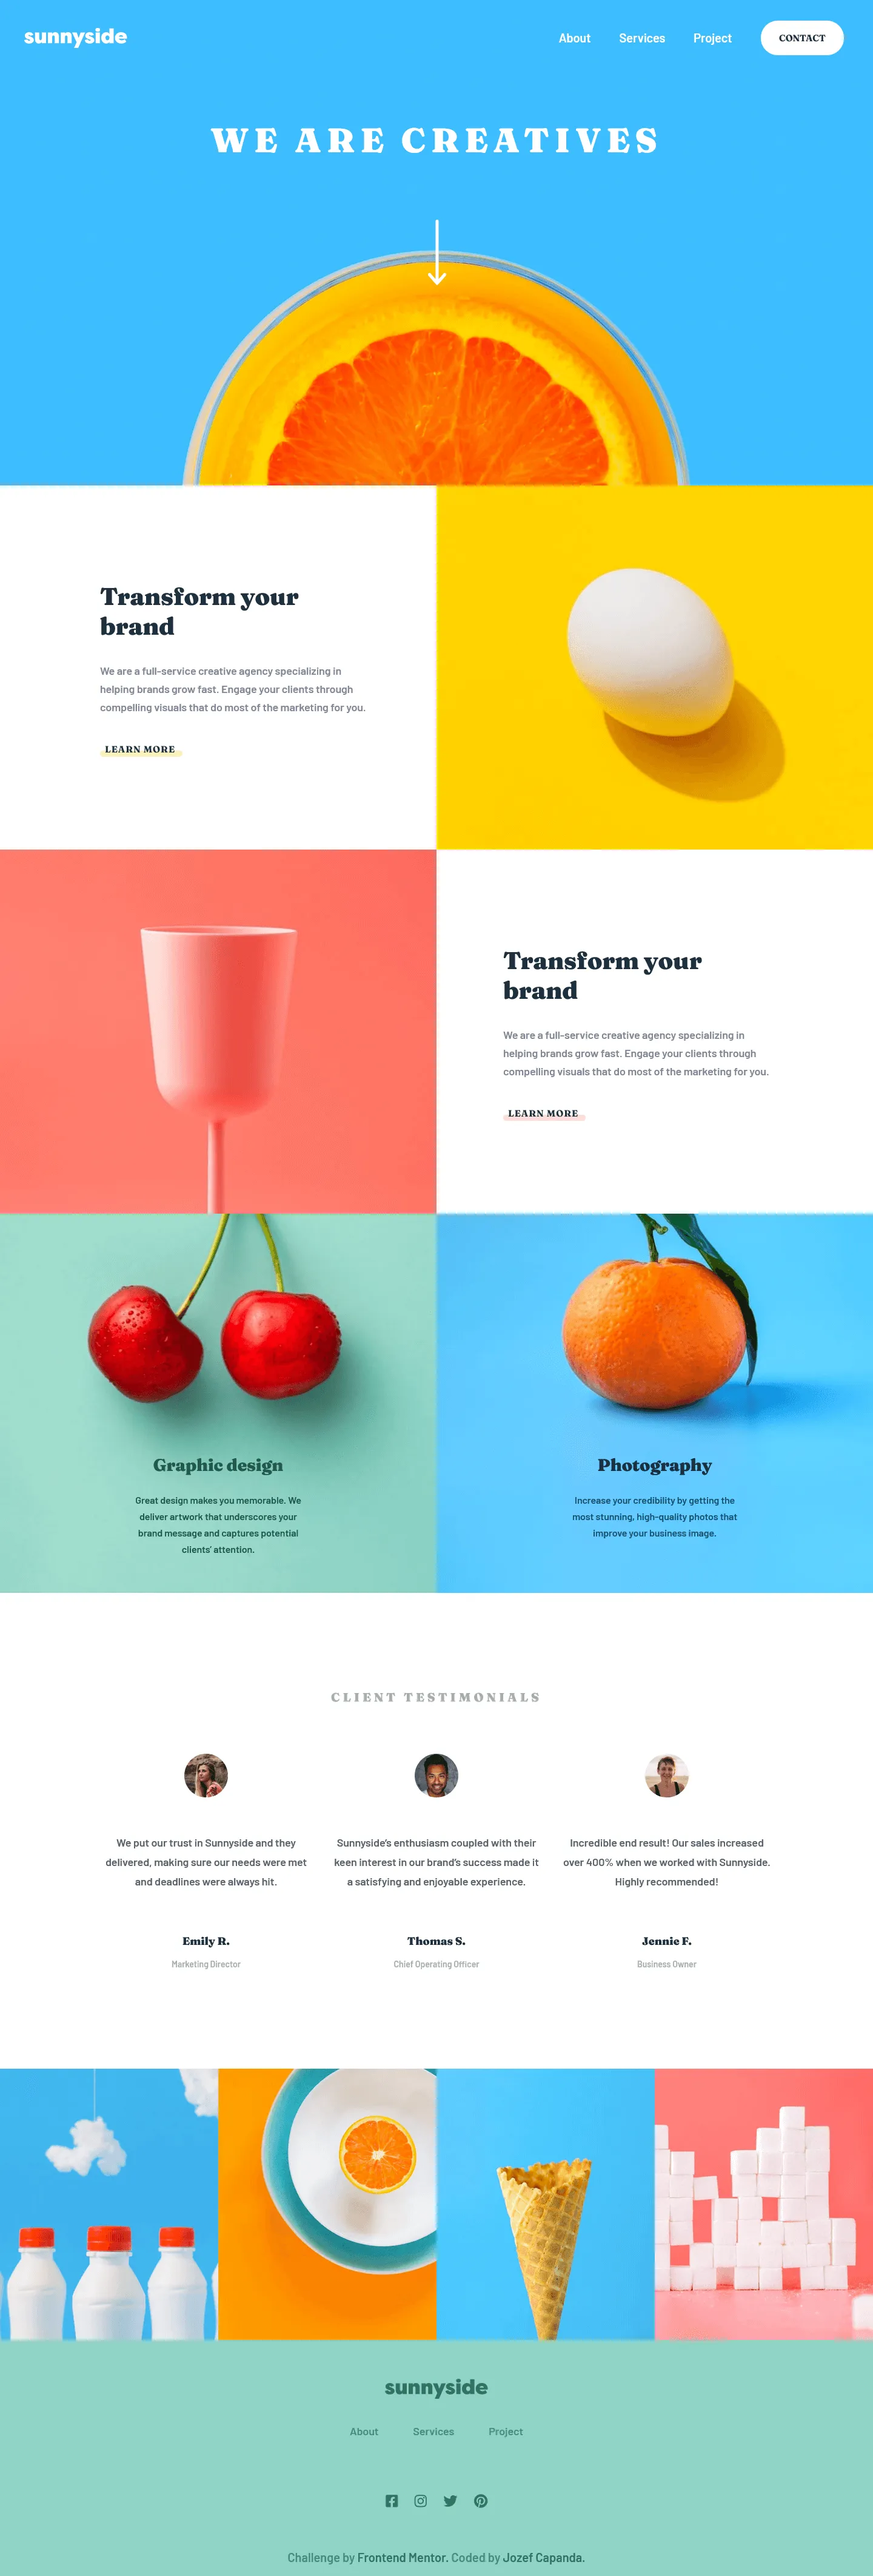
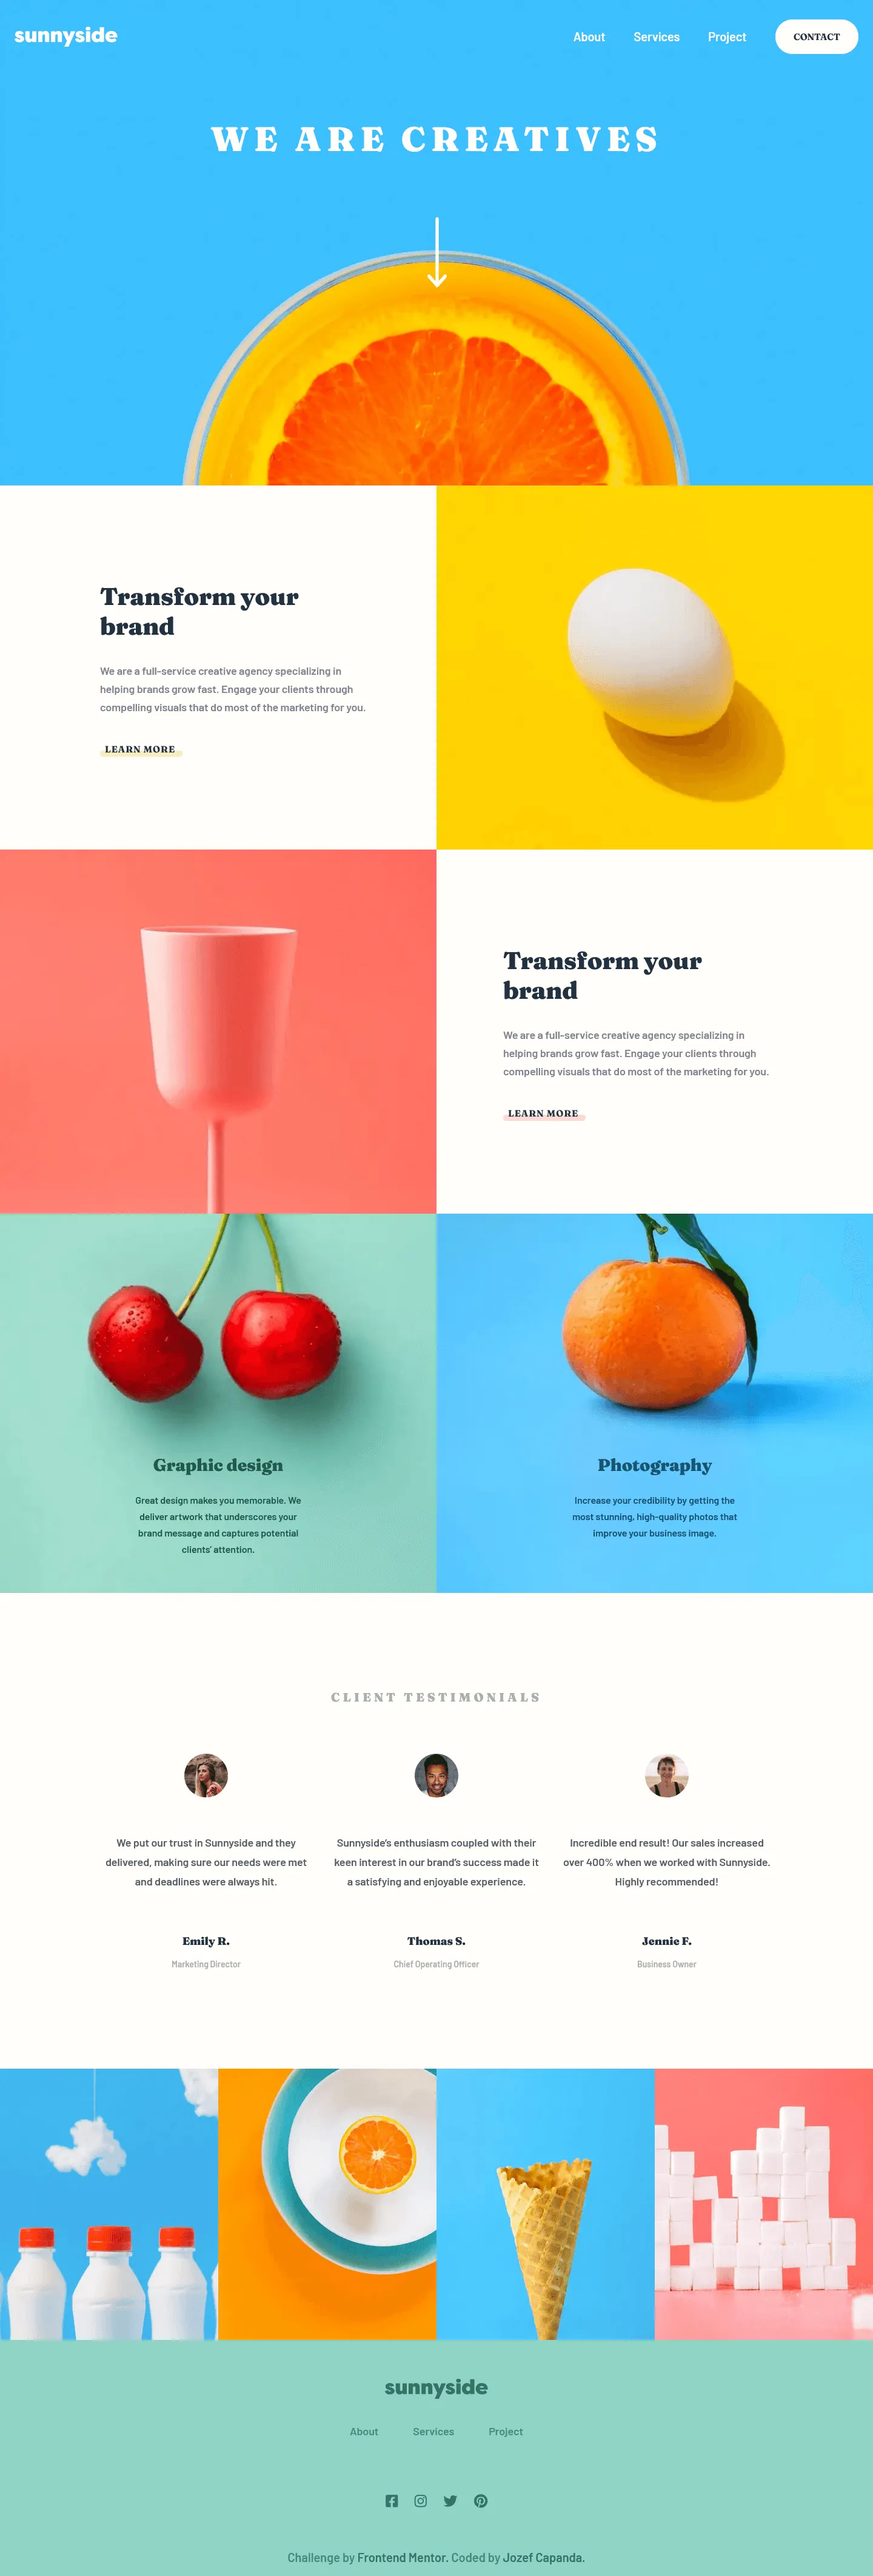
update

Changed region(s): [[0.875, 0.0, 1.0, 0.0311], [0.0312, 0.0, 0.125, 0.0311], [0.8125, 0.0, 0.8438, 0.0311]]

diff --git a/styles/main.min.css b/styles/main.min.css
@@ -1,1 +1,1 @@
-.navigation__link--contact,.text-container__link{font-family:var(--ff-heading);color:var(--clr-dark-blue-800)}.attribution,.footer,.header,.testimonials,.text-container{text-align:center}.footer__socials-icon:hover,.header__title,.navigation__link,.navigation__link--footer:hover{color:var(--clr-white)}.header{height:clamp(33.63rem,calc(9.54rem + 102.75vw),50rem);background-image:url("../images/mobile/image-header.jpg");background-size:cover;background-position:center;background-repeat:no-repeat;position:relative}.logo{width:7.7275rem;height:1.5rem}.header__title{font-size:clamp(2.5rem, calc(2.15rem + 1.5vw), 3.5rem);margin-top:clamp(5.5rem,calc(5.13rem + 1.6vw),6.56rem);line-height:3.0825rem;letter-spacing:.3906rem;text-transform:uppercase}.header__arrow{position:absolute;width:1.875rem;height:6.7175rem;top:clamp(18.38rem,calc(1.86rem + 70.45vw),30rem);left:49%;transform:translateX(-50%);animation:1s linear infinite pulse;border:transparent}@keyframes pulse{0%,100%{transform:scale(1,1)}50%{transform:scale(1.1,1.1)}}.navigation{display:flex;justify-content:space-between;align-items:center;padding:2rem 1.5rem 0;position:relative}.hamburger{background:0 0;border:none;cursor:pointer;padding:0;z-index:100}.navigation__link{line-height:1.5625rem;letter-spacing:-.13px;margin:0}.navigation--footer>*,.testimonial__card>*,.text-container{margin-inline:auto}.navigation__list--header{opacity:0;width:calc(100vw - 3rem);position:absolute;top:6.625rem;right:1.5rem;background:var(--clr-white);padding:2.4375rem;visibility:hidden;z-index:99;transition:visibility,opacity .2s linear}.navigation__list--header::before{content:"";position:absolute;top:-1.5rem;right:0;border-style:solid;border-width:0 0 24px 24px;border-color:transparent transparent #fff}.navigation__link--header{line-height:1.5625rem;letter-spacing:-.14px;display:inline-block;color:var(--clr-greyish-400);margin-bottom:2rem;font-size:1.25rem}.navigation__link--contact{letter-spacing:-.11px;font-weight:var(--fw-bold);text-transform:uppercase;padding:1rem 1.9rem;background-color:hsla(51,100%,49%);border-radius:1.75rem;font-size:.9375rem;margin-bottom:0}.show-navigation{opacity:1;visibility:visible}.text-container{max-width:27.8125rem;padding-block:clamp(4rem,calc(0.25rem + 15vw),7rem);padding-inline:clamp(1.5rem,calc(-1rem + 10vw),3.5rem)}.text-container__title{font-size:clamp(2rem, calc(1.82rem + .75vw), 2.5rem);line-height:2.4663rem;letter-spacing:-.23px;color:var(--clr-dark-blue-800);margin-bottom:clamp(1.5rem,calc(1.3rem + .85vw),2.06rem)}.text-container__content{line-height:1.875rem;letter-spacing:-.13px;margin-bottom:clamp(2rem,calc(1.82rem + .75vw),2.5rem)}.text-container__link{font-size:.9375rem;line-height:1.5625rem;letter-spacing:1px;text-transform:uppercase;text-decoration:none;z-index:1;padding-inline:0.5rem;position:relative}.text-container__link::after{position:absolute;content:"";height:.625rem;width:100%;border-radius:10rem;opacity:.25;left:0;top:.75rem;z-index:-2}.text-container__link--yellow::after{background-color:#fad400}.text-container__link--soft-red::after{background-color:#fe7867}.text-container__link:hover::after{opacity:1;transition:.25s}.text-container--secondary{text-align:center;padding:24.875rem 1.5rem 3.6875rem;max-width:21.1875rem;margin-inline:auto}.text-container__title--secondary{font-size:1.75rem;line-height:2.0325rem;letter-spacing:-.2px;margin-bottom:1.6875rem}.text-container__content--graphic,.text-container__title--graphic{color:var(--clr-cyan-800)}.text-container__title--photo{color:var(--clr-dark-blue-700)}.text-container__content--photo{color:var(--clr-dark-blue-500)}.text-container__content--secondary{font-size:1rem;line-height:1.6875rem;letter-spacing:-.11px}.graphic,.photo{min-height:37.5rem;background-repeat:no-repeat;background-position:center;background-size:cover}.graphic{background-image:url("../images/mobile/image-graphic-design.jpg")}.photo{background-image:url("../images/mobile/image-photography.jpg")}.testimonials{padding-top:max(4rem,11.1111%);padding-bottom:max(5.3125rem,11.1111%);padding-inline:max(1.5rem,5.5%)}.testimonials__title{font-size:clamp(1rem, calc(.91rem + .38vw), 1.25rem);color:var(--clr-greyish-200);line-height:1.2331rem;letter-spacing:.25rem;text-transform:uppercase;margin-bottom:clamp(4rem,calc(3.63rem + 1.6vw),5.06rem)}.testimonial__cards{display:flex;flex-direction:column;justify-content:center;align-items:center;gap:4rem}.testimonial__card{max-width:21.875rem}.testimonial__card-image{width:4.5rem;aspect-ratio:1/1;border-radius:50%;margin-bottom:2rem}.testimonial__card-text{color:var(--clr-greyish-600);line-height:2rem;letter-spacing:-.13px;margin-bottom:2rem}.testimonial__card-author{font-family:var(--ff-heading);font-weight:var(--fw-heavy);color:var(--clr-dark-blue-800);margin-bottom:.5625rem}.testimonial__card-job{color:var(--clr-greyish-200);font-size:.875rem;line-height:1.5625rem;letter-spacing:-.1}.footer{background-color:#90d4c6}.navigation--footer{padding:4rem 2.4375rem 3rem}.logo--footer{margin-bottom:2.5rem;width:10.625rem;height:2.0625rem}.navigation__list--footer{display:flex;justify-content:center;gap:clamp(1rem,calc(-9.25rem + 54.67vw),3.56rem);margin-bottom:5.5rem}.navigation__link--footer{color:var(--clr-cyan-400);transition:.25s}.footer__socials{display:flex;justify-content:center;gap:1.75rem}.footer__socials-icon{color:var(--clr-cyan-600);transition:.25s}.attribution{padding:1rem;font-size:clamp(1rem, calc(0rem + 5.33vw), 1.25rem)}.attribution__content{color:#458d7e}.attribution__link{color:#2c7566}.attribution__link:hover{color:var(--clr-white);transition:color .25s}
+.navigation__link--contact,.text-container__link{font-family:var(--ff-heading);color:var(--clr-dark-blue-800)}.attribution,.footer,.header,.testimonials,.text-container{text-align:center}.footer__socials-icon:hover,.header__title,.navigation__link,.navigation__link--footer:hover{color:var(--clr-white)}.header{height:clamp(33.63rem,calc(9.54rem + 102.75vw),50rem);background-image:url("../images/mobile/image-header.jpg");background-size:cover;background-position:center;background-repeat:no-repeat;position:relative}.logo{width:7.7275rem;height:1.5rem}.header__title{font-size:clamp(2.5rem, calc(2.15rem + 1.5vw), 3.5rem);margin-top:clamp(5.5rem,calc(5.13rem + 1.6vw),6.56rem);line-height:3.0825rem;letter-spacing:.3906rem;text-transform:uppercase}.header__arrow{position:absolute;width:1.875rem;height:6.7175rem;top:clamp(18.38rem,calc(1.86rem + 70.45vw),30rem);left:49%;transform:translateX(-50%);animation:1s linear infinite pulse;border:transparent}@keyframes pulse{0%,100%{transform:scale(1,1)}50%{transform:scale(1.1,1.1)}}.navigation{display:flex;justify-content:space-between;align-items:center;padding:2rem 1.5rem 0;position:relative}.hamburger{background:0 0;border:none;cursor:pointer;padding:0;z-index:100}.navigation__link{line-height:1.5625rem;letter-spacing:-.13px;margin:0}.navigation--footer>*,.testimonial__card>*,.text-container{margin-inline:auto}.navigation__list--header{opacity:0;width:calc(100vw - 3rem);position:absolute;top:6.625rem;right:1.5rem;background:var(--clr-white);padding:2.4375rem;visibility:hidden;z-index:99;transition:visibility,opacity .2s linear}.navigation__list--header::before{content:"";position:absolute;top:-1.5rem;right:0;border-style:solid;border-width:0 0 24px 24px;border-color:transparent transparent #fff}.navigation__link--header{line-height:1.5625rem;letter-spacing:-.14px;display:inline-block;color:var(--clr-greyish-400);margin-bottom:2rem;font-size:1.25rem}.navigation__link--contact{letter-spacing:-.11px;font-weight:var(--fw-bold);text-transform:uppercase;padding:1rem 1.9rem;background-color:hsla(51,100%,49%);border-radius:1.75rem;font-size:.9375rem;margin-bottom:0}.show-navigation{opacity:1;visibility:visible}.text-container{max-width:27.8125rem;padding-block:clamp(4rem,calc(0.25rem + 15vw),7rem);padding-inline:clamp(1.5rem,calc(-1rem + 10vw),3.5rem)}.text-container__title{font-size:clamp(2rem, calc(1.82rem + .75vw), 2.5rem);line-height:2.4663rem;letter-spacing:-.23px;color:var(--clr-dark-blue-800);margin-bottom:clamp(1.5rem,calc(1.3rem + .85vw),2.06rem)}.text-container__content{line-height:1.875rem;letter-spacing:-.13px;margin-bottom:clamp(2rem,calc(1.82rem + .75vw),2.5rem)}.text-container__link{font-size:.9375rem;line-height:1.5625rem;letter-spacing:1px;text-transform:uppercase;text-decoration:none;z-index:1;padding-inline:0.5rem;position:relative}.text-container__link::after{position:absolute;content:"";height:.625rem;width:100%;border-radius:10rem;opacity:.25;left:0;top:.75rem;z-index:-2}.text-container__link--yellow::after{background-color:#fad400}.text-container__link--soft-red::after{background-color:#fe7867}.text-container__link:hover::after{opacity:1;transition:.25s}.text-container--secondary{text-align:center;padding:24.875rem 1.5rem 3.6875rem;max-width:21.1875rem;margin-inline:auto}.text-container__title--secondary{font-size:1.75rem;line-height:2.0325rem;letter-spacing:-.2px;margin-bottom:1.6875rem}.text-container__content--graphic,.text-container__title--graphic{color:var(--clr-cyan-800)}.text-container__title--photo{color:var(--clr-dark-blue-700);opacity:.75}.text-container__content--photo{color:var(--clr-dark-blue-500)}.text-container__content--secondary{font-size:1rem;line-height:1.6875rem;letter-spacing:-.11px}.graphic,.photo{min-height:37.5rem;background-repeat:no-repeat;background-position:center;background-size:cover}.graphic{background-image:url("../images/mobile/image-graphic-design.jpg")}.photo{background-image:url("../images/mobile/image-photography.jpg")}.testimonials{padding-top:max(4rem,11.1111%);padding-bottom:max(5.3125rem,11.1111%);padding-inline:max(1.5rem,5.5%)}.testimonials__title{font-size:clamp(1rem, calc(.91rem + .38vw), 1.25rem);color:var(--clr-greyish-200);line-height:1.2331rem;letter-spacing:.25rem;text-transform:uppercase;margin-bottom:clamp(4rem,calc(3.63rem + 1.6vw),5.06rem)}.testimonial__cards{display:flex;flex-direction:column;justify-content:center;align-items:center;gap:4rem}.testimonial__card{max-width:21.875rem}.testimonial__card-image{width:4.5rem;aspect-ratio:1/1;border-radius:50%;margin-bottom:2rem}.testimonial__card-text{color:var(--clr-greyish-600);line-height:2rem;letter-spacing:-.13px;margin-bottom:2rem}.testimonial__card-author{font-family:var(--ff-heading);font-weight:var(--fw-heavy);color:var(--clr-dark-blue-800);margin-bottom:.5625rem}.testimonial__card-job{color:var(--clr-greyish-200);font-size:.875rem;line-height:1.5625rem;letter-spacing:-.1}.footer{background-color:#90d4c6}.navigation--footer{padding:4rem 2.4375rem 3rem}.logo--footer{margin-bottom:2.5rem;width:10.625rem;height:2.0625rem}.navigation__list--footer{display:flex;justify-content:center;gap:clamp(1rem,calc(-9.25rem + 54.67vw),3.56rem);margin-bottom:5.5rem}.navigation__link--footer{color:var(--clr-cyan-400);transition:.25s}.footer__socials{display:flex;justify-content:center;gap:1.75rem}.footer__socials-icon{color:var(--clr-cyan-600);transition:.25s}.attribution{padding:1rem;font-size:clamp(1rem, calc(0rem + 5.33vw), 1.25rem)}.attribution__content{color:#458d7e}.attribution__link{color:#2c7566}.attribution__link:hover{color:var(--clr-white);transition:color .25s}

diff --git a/styles/global.css b/styles/global.css
@@ -39,7 +39,7 @@
   --clr-greyish-600: hsl(213, 9%, 39%);
 
   --clr-dark-blue-500: hsl(198, 62%, 26%);
-  --clr-dark-blue-700: hsl(197, 84%, 13%);
+  --clr-dark-blue-700: hsla(197, 86%, 12%);
   --clr-dark-blue-800: hsl(212, 27%, 19%);
 
   --clr-cyan-200: hsl(168, 44%, 70%);

diff --git a/styles/main.css b/styles/main.css
@@ -224,6 +224,7 @@
 
 .text-container__title--photo {
   color: var(--clr-dark-blue-700);
+  opacity: 0.75;
 }
 
 .text-container__content--photo {
